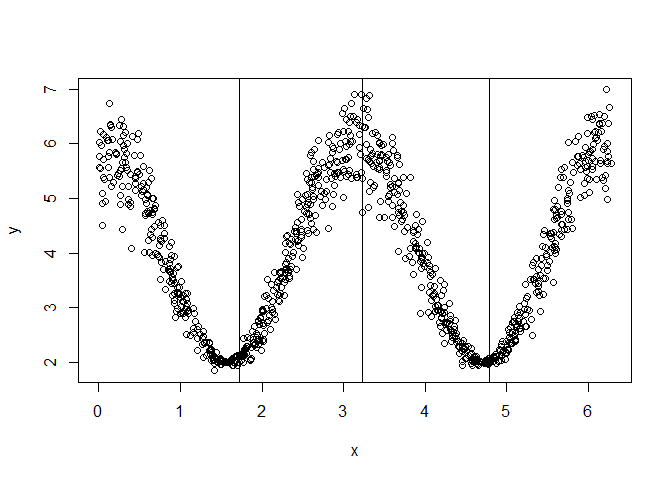
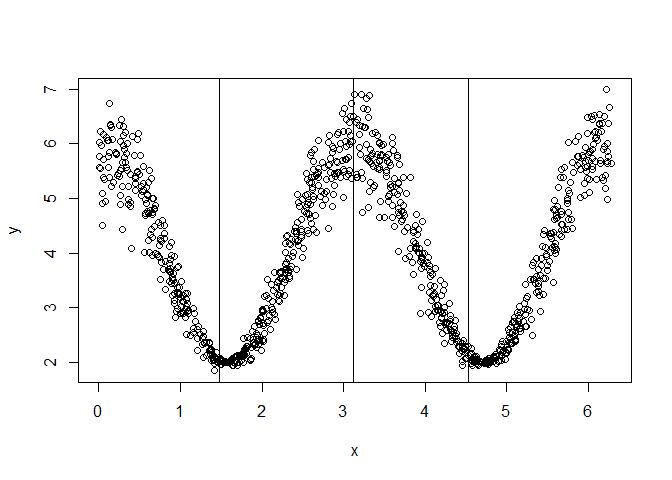
cleanup

diff --git a/README.md b/README.md
@@ -35,11 +35,24 @@ SS_multi = function(x, y, cov) {
 }
 ```
 
-# Current TODOs
+# Notes
 
-  - Check if splits on categorical variables works and implement it
-  - `split_optimizer` currently uses slow simulated annealing, might be
-    improvable
+  - This package is not intended to be fast. It serves as a modular
+    framework and playground to explore/study the splitting of features
+    by custom objectives.
+  - Splits for categorical variables currently not implemented and
+    tested. Try to handle categoricals as numerics as workaround.
+  - The `perform_split` function computes (and aggregates) the objective
+    in the generated nodes after splitting w.r.t. specific split points.
+  - Binary splits generate two nodes and are implemented in
+    `find_best_binary_split`. The implementation does exhaustive search
+    of split point candidates to find the best split point for a given
+    feature.
+  - Multiple splits generate multiple nodes and are implemented in
+    `find_best_multiway_split`. The implementation currently uses a slow
+    simulated annealing optimization to find the best split point for a
+    given feature (might be improved and replaced with other, faster
+    optimization procedures).
 
 # CART with binary splits (constant model in node)
 
@@ -50,17 +63,17 @@ q = quantile(x, seq(0, 1, length.out = 100), type = 1)
 y = ifelse(x > pi/2, rnorm(nsim, mean = 0), rnorm(nsim, mean = 10, sd = 2))
 X = data.frame(x = x)
 
-split = split_parent_node(y, X, objective = SS, optimizer = split_optimizer_exhaustive)
+split = split_parent_node(y, X, objective = SS, optimizer = find_best_binary_split)
 split
 ```
 
-    ##    feature split.points objective.value
-    ## 1:       x     1.590268        2044.898
+    ##    feature objective.value split.points best.split
+    ## 1:       x        1900.012     1.547843       TRUE
 
 ``` r
 # plot result
 plot(x, y)
-abline(v = split$split.points)
+abline(v = unlist(split$split.points))
 ```
 
 ![](README_files/figure-gfm/unnamed-chunk-4-1.png)<!-- -->
@@ -72,18 +85,17 @@ y = ifelse(x < pi/2, rnorm(nsim, mean = 0),
   ifelse(x < pi, rnorm(nsim, mean = 10, sd = 2), 
     rnorm(nsim, mean = -10, sd = 5)))
 
-split = split_parent_node(y, X, objective = SS, optimizer = split_optimizer, 
+split = split_parent_node(y, X, objective = SS, optimizer = find_best_multiway_split, 
   n.splits = 2, control = list(maxit = 5000))
 split
 ```
 
-    ##    feature split.points objective.value
-    ## 1:       x     1.505417        14719.45
-    ## 2:       x     3.159866        14719.45
+    ##    feature objective.value      split.points best.split
+    ## 1:       x         13897.6 1.547843,3.118802       TRUE
 
 ``` r
 plot(x, y)
-abline(v = split$split.points)
+abline(v = unlist(split$split.points))
 ```
 
 ![](README_files/figure-gfm/unnamed-chunk-5-1.png)<!-- -->
@@ -93,17 +105,17 @@ abline(v = split$split.points)
 ``` r
 y = 4 + 2 * cos(x) + rnorm(nsim, mean = 0, sd = abs(cos(x)) / 2)
 
-split = split_parent_node(y, X, objective = SS_lm, optimizer = split_optimizer_exhaustive, 
+split = split_parent_node(y, X, objective = SS_lm, optimizer = find_best_binary_split, 
   n.splits = 1, control = list(maxit = 1000))
 split
 ```
 
-    ##    feature split.points objective.value
-    ## 1:       x     3.159866        140.3408
+    ##    feature objective.value split.points best.split
+    ## 1:       x        140.2617     3.118802       TRUE
 
 ``` r
 plot(x, y)
-abline(v = split$split.points)
+abline(v = unlist(split$split.points))
 ```
 
 ![](README_files/figure-gfm/unnamed-chunk-6-1.png)<!-- -->
@@ -113,19 +125,17 @@ abline(v = split$split.points)
 ``` r
 y = 4 + 2 * cos(x*2) + rnorm(nsim, mean = 0, sd = abs(cos(x)) / 2)
 
-split = split_parent_node(y, X, objective = SS_lm, optimizer = split_optimizer, 
+split = split_parent_node(y, X, objective = SS_lm, optimizer = find_best_multiway_split, 
   n.splits = 3, control = list(maxit = 1000))
 split
 ```
 
-    ##    feature split.points objective.value
-    ## 1:       x     1.722640        169.0321
-    ## 2:       x     3.236027        169.0321
-    ## 3:       x     4.787695        169.0321
+    ##    feature objective.value               split.points best.split
+    ## 1:       x        171.9338 1.480383,3.118802,4.529151       TRUE
 
 ``` r
 plot(x, y)
-abline(v = split$split.points)
+abline(v = unlist(split$split.points))
 ```
 
 ![](README_files/figure-gfm/unnamed-chunk-7-1.png)<!-- -->
@@ -218,17 +228,26 @@ str(Y) # contains ICE values for each grid point
 COV = cov(Y)
 SS_multi2 = function(x, y) SS_multi(x, y, cov = COV)
 sp = split_parent_node(Y = Y, X = X, objective = SS_multi2, 
-  n.splits = 1, min.node.size = 1, optimizer = split_optimizer_exhaustive)
+  n.splits = 1, min.node.size = 1, optimizer = find_best_binary_split)
 sp
 ```
 
-    ##    feature split.points objective.value
-    ## 1:      x1  -0.01498066        19372.42
-    ## 2:      x2   0.03784932        19936.75
-    ## 3:      x3   0.00000000        19066.63
-    ## 4:      x4   0.00000000        19282.92
-    ## 5:      x5   0.00000000        19475.43
-    ## 6:      x6   9.51962499        19509.92
+    ##    feature objective.value split.points best.split
+    ## 1:      x1        19373.03 -0.008479368      FALSE
+    ## 2:      x2        19937.16   0.05241069      FALSE
+    ## 3:      x3        19066.63          0.5       TRUE
+    ## 4:      x4        19282.92          0.5      FALSE
+    ## 5:      x5        19475.43          0.5      FALSE
+    ## 6:      x6        19505.03     9.783206      FALSE
+
+``` r
+node_index = generate_node_index(Y, X, result = sp)
+str(node_index)
+```
+
+    ## List of 2
+    ##  $ 0.0      : int [1:480] 1 4 8 13 14 16 17 20 21 22 ...
+    ##  $ [0.5,1.0]: int [1:520] 2 3 5 6 7 9 10 11 12 15 ...
 
 ``` r
 # Compare with MultivariateRandomForest yields same result
@@ -236,102 +255,23 @@ library(MultivariateRandomForest)
 invcov = solve(cov(Y), tol = 1e-30)
 sp2 = splitt2(X = as.matrix(X), Y = as.matrix(Y), m_feature = ncol(X), 
   Index = 1:nrow(X), Inv_Cov_Y = invcov, Command = 2, ff = 1:ncol(X))
-sp2
+str(sp2)
 ```
 
-    ## $Idx_left
-    ##   [1]   1   4   8  13  14  16  17  20  21  22  24  26  29  34  36  37  38
-    ##  [18]  39  41  42  43  45  46  47  49  50  52  53  54  55  57  58  59  60
-    ##  [35]  61  66  68  74  78  80  81  84  87  88  92  96  97 100 101 102 105
-    ##  [52] 106 108 109 110 111 112 115 123 125 127 128 129 130 132 133 134 138
-    ##  [69] 140 141 146 148 149 152 153 154 155 156 157 159 162 164 168 169 171
-    ##  [86] 172 173 174 175 178 180 182 188 189 191 192 194 199 200 202 204 207
-    ## [103] 209 210 212 213 218 222 225 229 231 232 234 235 237 240 244 246 249
-    ## [120] 251 252 256 257 258 261 262 263 270 272 273 275 279 282 283 284 286
-    ## [137] 287 288 293 296 297 298 300 305 307 308 309 310 314 315 319 321 324
-    ## [154] 325 326 327 328 330 337 346 347 349 350 351 354 356 357 358 359 361
-    ## [171] 365 366 368 369 371 372 374 376 377 379 381 383 384 385 386 389 391
-    ## [188] 392 395 397 400 401 402 403 404 407 410 411 412 416 418 419 424 425
-    ## [205] 426 427 431 433 434 437 439 441 443 444 445 447 449 452 456 458 460
-    ## [222] 462 463 467 468 469 470 475 476 479 480 481 482 484 485 486 487 488
-    ## [239] 491 495 499 506 509 510 511 514 515 517 518 522 525 526 528 529 530
-    ## [256] 531 532 536 539 542 546 549 558 559 560 561 562 564 568 569 573 574
-    ## [273] 577 579 580 581 582 586 592 594 596 600 603 604 605 606 607 608 609
-    ## [290] 613 616 617 618 619 620 621 627 628 632 635 636 637 639 640 641 642
-    ## [307] 644 645 647 648 649 656 659 660 664 667 669 670 672 674 675 676 682
-    ## [324] 685 686 688 689 690 692 693 698 702 703 704 707 708 709 710 711 713
-    ## [341] 715 716 720 721 723 729 731 732 736 738 739 741 743 744 745 747 751
-    ## [358] 752 753 754 755 756 757 760 762 764 767 769 775 777 778 779 780 782
-    ## [375] 784 785 786 787 789 790 791 792 793 796 797 801 804 806 811 813 814
-    ## [392] 815 816 817 818 819 820 824 826 827 828 829 832 835 838 841 844 847
-    ## [409] 848 850 851 852 855 857 860 861 862 867 868 870 875 878 880 881 882
-    ## [426] 884 888 890 892 895 896 898 901 904 905 906 909 910 913 918 919 920
-    ## [443] 922 924 929 932 933 934 936 937 939 940 941 943 944 945 950 954 958
-    ## [460] 961 967 969 971 972 973 975 976 978 979 980 982 984 988 989 990 991
-    ## [477] 992 994 995 996
-    ## 
-    ## $Idx_right
-    ##   [1]    2    3    5    6    7    9   10   11   12   15   18   19   23   25
-    ##  [15]   27   28   30   31   32   33   35   40   44   48   51   56   62   63
-    ##  [29]   64   65   67   69   70   71   72   73   75   76   77   79   82   83
-    ##  [43]   85   86   89   90   91   93   94   95   98   99  103  104  107  113
-    ##  [57]  114  116  117  118  119  120  121  122  124  126  131  135  136  137
-    ##  [71]  139  142  143  144  145  147  150  151  158  160  161  163  165  166
-    ##  [85]  167  170  176  177  179  181  183  184  185  186  187  190  193  195
-    ##  [99]  196  197  198  201  203  205  206  208  211  214  215  216  217  219
-    ## [113]  220  221  223  224  226  227  228  230  233  236  238  239  241  242
-    ## [127]  243  245  247  248  250  253  254  255  259  260  264  265  266  267
-    ## [141]  268  269  271  274  276  277  278  280  281  285  289  290  291  292
-    ## [155]  294  295  299  301  302  303  304  306  311  312  313  316  317  318
-    ## [169]  320  322  323  329  331  332  333  334  335  336  338  339  340  341
-    ## [183]  342  343  344  345  348  352  353  355  360  362  363  364  367  370
-    ## [197]  373  375  378  380  382  387  388  390  393  394  396  398  399  405
-    ## [211]  406  408  409  413  414  415  417  420  421  422  423  428  429  430
-    ## [225]  432  435  436  438  440  442  446  448  450  451  453  454  455  457
-    ## [239]  459  461  464  465  466  471  472  473  474  477  478  483  489  490
-    ## [253]  492  493  494  496  497  498  500  501  502  503  504  505  507  508
-    ## [267]  512  513  516  519  520  521  523  524  527  533  534  535  537  538
-    ## [281]  540  541  543  544  545  547  548  550  551  552  553  554  555  556
-    ## [295]  557  563  565  566  567  570  571  572  575  576  578  583  584  585
-    ## [309]  587  588  589  590  591  593  595  597  598  599  601  602  610  611
-    ## [323]  612  614  615  622  623  624  625  626  629  630  631  633  634  638
-    ## [337]  643  646  650  651  652  653  654  655  657  658  661  662  663  665
-    ## [351]  666  668  671  673  677  678  679  680  681  683  684  687  691  694
-    ## [365]  695  696  697  699  700  701  705  706  712  714  717  718  719  722
-    ## [379]  724  725  726  727  728  730  733  734  735  737  740  742  746  748
-    ## [393]  749  750  758  759  761  763  765  766  768  770  771  772  773  774
-    ## [407]  776  781  783  788  794  795  798  799  800  802  803  805  807  808
-    ## [421]  809  810  812  821  822  823  825  830  831  833  834  836  837  839
-    ## [435]  840  842  843  845  846  849  853  854  856  858  859  863  864  865
-    ## [449]  866  869  871  872  873  874  876  877  879  883  885  886  887  889
-    ## [463]  891  893  894  897  899  900  902  903  907  908  911  912  914  915
-    ## [477]  916  917  921  923  925  926  927  928  930  931  935  938  942  946
-    ## [491]  947  948  949  951  952  953  955  956  957  959  960  962  963  964
-    ## [505]  965  966  968  970  974  977  981  983  985  986  987  993  997  998
-    ## [519]  999 1000
-    ## 
-    ## $Feature_number
-    ## [1] 3
-    ## 
-    ## $Threshold_value
-    ## [1] 0.5
+    ## List of 4
+    ##  $ Idx_left       : int [1:480] 1 4 8 13 14 16 17 20 21 22 ...
+    ##  $ Idx_right      : int [1:520] 2 3 5 6 7 9 10 11 12 15 ...
+    ##  $ Feature_number : int 3
+    ##  $ Threshold_value: num 0.5
 
 Visualize the results:
 
 ``` r
-best.split = which.min(sp$objective.value)
-best.feature = sp$feature[best.split]
-best.point = sp$split.points[best.split]
-
-left.node = X[, best.feature] <= best.point
-right.node = !left.node
-
-
 plot.data = effect$results$x2
-plot.data$.split = as.factor(ifelse(plot.data$.id %in% which(left.node), "left.node", "right.node"))
+plot.data$.split = as.factor(ifelse(plot.data$.id %in% node_index[[1]], "left.node", "right.node"))
 
 ggplot(plot.data, aes(x = .borders, y = .value)) + 
   geom_line(aes(group = .id)) + facet_grid(~ .split)
 ```
 
-![](README_files/figure-gfm/unnamed-chunk-10-1.png)<!-- -->
+![](README_files/figure-gfm/unnamed-chunk-11-1.png)<!-- -->
